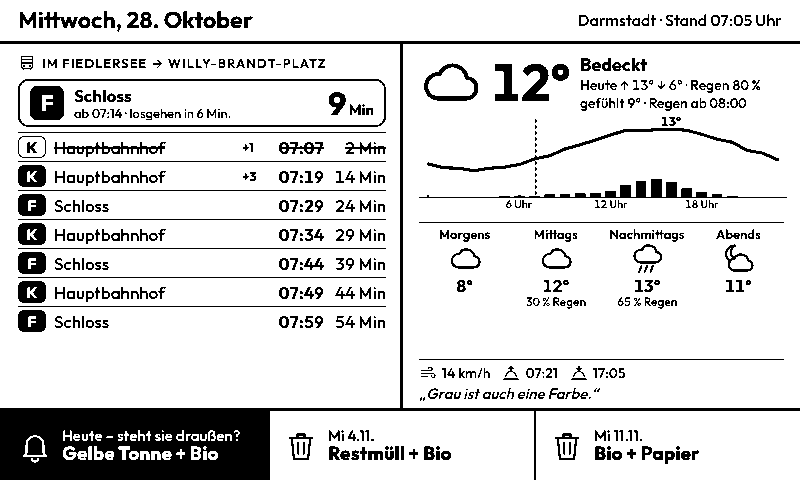
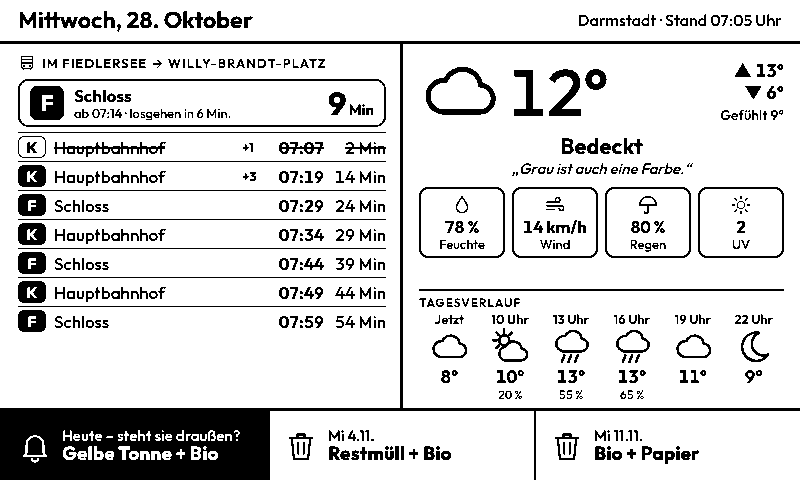
TRMNL Seite 1: Wetterspalte wie auf der CYD mit Kacheln und Tagesverlauf
Statt Temperaturkurve: Jetzt-Wert mit Höchst-, Tiefst- und gefühltem
Wert, Wetterlage, Spruch, Kacheln für Feuchte, Wind, Regen und UV sowie
der Tagesverlauf in 3-Stunden-Schritten mit Symbol und Temperatur.

Claude-Session: https://claude.ai/code/session_01PVUntCU1XoYrdwzgp5Vrbk

diff --git a/trmnl/vorschau/sample.py b/trmnl/vorschau/sample.py
@@ -30,14 +30,14 @@ wetter = {
     "latitude": 49.87, "longitude": 8.65, "utc_offset_seconds": OFF, "timezone": "Europe/Berlin",
     "timezone_abbreviation": "GMT+1", "elevation": 144.0,
     "current": {"time": q.strftime("%Y-%m-%dT%H:%M"), "interval": 900, "temperature_2m": 11.8,
-                "apparent_temperature": 9.4, "is_day": 1 if 7 <= lokal.hour < 17 else 0,
+                "apparent_temperature": 9.4, "relative_humidity_2m": 78, "is_day": 1 if 7 <= lokal.hour < 17 else 0,
                 "weather_code": 3, "wind_speed_10m": 14.2, "precipitation": 0.0},
     "hourly": hourly, "minutely_15": m15,
     "daily": {"time": [str(day0), str(day0 + dt.timedelta(days=1))], "weather_code": [61, 2],
               "temperature_2m_max": [13.4, 12.1], "temperature_2m_min": [6.2, 4.8],
               "precipitation_probability_max": [80, 15],
               "sunrise": [f"{day0}T07:21", f"{day0 + dt.timedelta(days=1)}T07:23"],
-              "sunset": [f"{day0}T17:05", f"{day0 + dt.timedelta(days=1)}T17:03"]},
+              "sunset": [f"{day0}T17:05", f"{day0 + dt.timedelta(days=1)}T17:03"], "uv_index_max": [2.4, 1.9]},
 }
 
 # ---------------- dbf.finalrewind.org JSON (version=3, HAFAS) ----------------

diff --git a/trmnl/README.md b/trmnl/README.md
@@ -8,7 +8,7 @@ Zwei Seiten für ein TRMNL bzw. das Seeed Studio TRMNL 7,5" (800 × 480, Schwarz
 
 **Seite 1** (alle 5 Minuten neu)
 - **links:** Abfahrten an deiner Haltestelle in eine Richtung. Die erste Fahrt, die du mit deinem Fußweg noch erreichst, steht oben im Kasten, mit „losgehen in … Min.“. Fahrten, die du nicht mehr schaffst oder die ausfallen, sind durchgestrichen. Verspätungen erscheinen als „+3“.
-- **rechts:** das Wetter des Tages. Jetzt-Wert, Höchst- und Tiefstwert, Regen in den nächsten 2 Stunden, Temperaturkurve von 0 bis 24 Uhr mit Regenbalken (gestrichelter Strich = jetzt), dazu morgens, mittags, nachmittags und abends.
+- **rechts:** das Wetter des Tages wie auf der CYD. Jetzt-Temperatur mit Symbol, Höchst-, Tiefst- und gefühlter Wert, Wetterlage und Spruch, dazu Kacheln für Feuchte, Wind, Regenwahrscheinlichkeit und UV. Darunter der Tagesverlauf: jetzt und dann alle 3 Stunden mit Symbol, Temperatur und Regenwahrscheinlichkeit.
 - **unten:** die nächsten 3 Mülltermine. Ab der eingestellten Uhrzeit am Vorabend (Standard 17:00) wird der Termin für morgen schwarz hervorgehoben: „heute Abend raus!“. Am Abholtag bleibt der Hinweis bis 10 Uhr stehen.
 
 | Erinnerung am Vorabend | Am Abholtag morgens |
